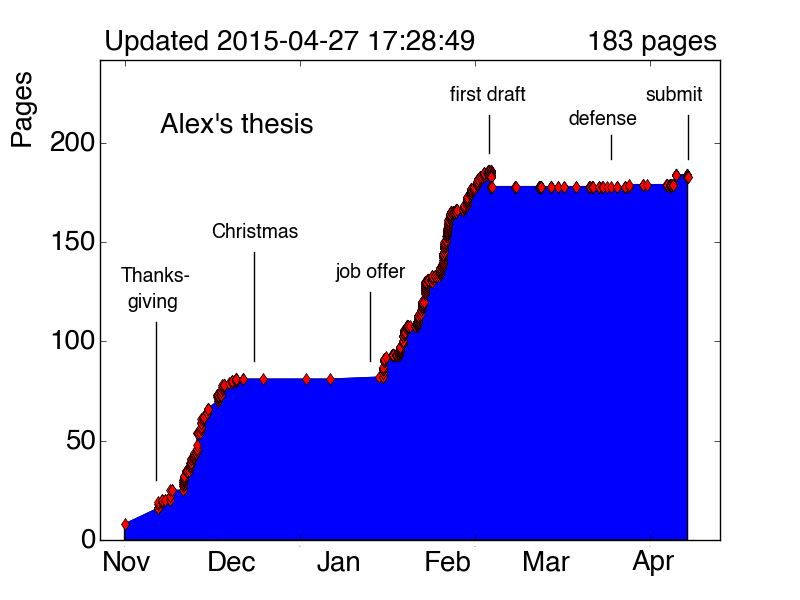
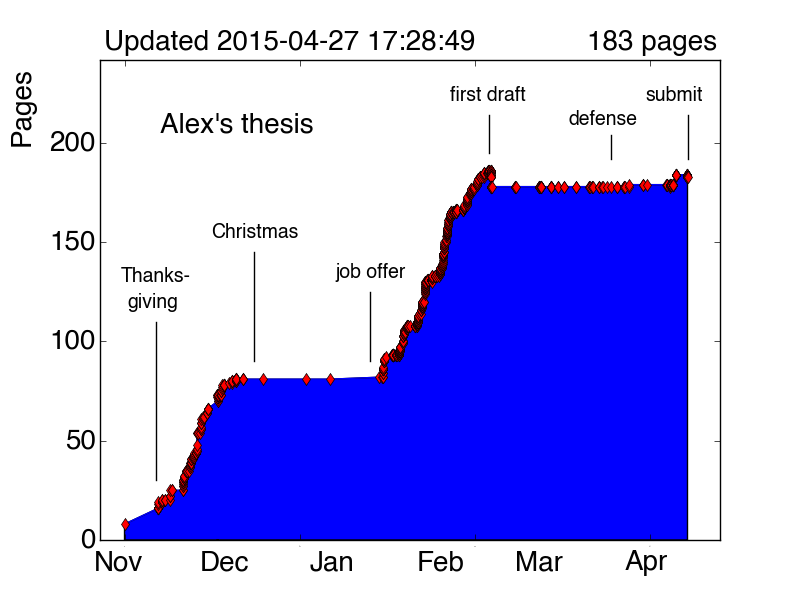
final lumi

diff --git a/scripts/plot_pages.py b/scripts/plot_pages.py
@@ -72,12 +72,12 @@ if calendar:
 
     plt.xlabel("")
     plt.tick_params(axis='x', which='major', labelsize=0)
-    plt.text((datetime.datetime.strptime("2014-11-12-00h00m00s", "%Y-%m-%d-%Hh%Mm%Ss") - start).days, -15, r"Nov")
-    plt.text((datetime.datetime.strptime("2014-12-12-00h00m00s", "%Y-%m-%d-%Hh%Mm%Ss") - start).days, -15, r"Dec")
-    plt.text((datetime.datetime.strptime("2015-01-12-00h00m00s", "%Y-%m-%d-%Hh%Mm%Ss") - start).days, -15, r"Jan")
-    plt.text((datetime.datetime.strptime("2015-02-12-00h00m00s", "%Y-%m-%d-%Hh%Mm%Ss") - start).days, -15, r"Feb")
-    plt.text((datetime.datetime.strptime("2015-03-12-00h00m00s", "%Y-%m-%d-%Hh%Mm%Ss") - start).days, -15, r"Mar")
-    plt.text((datetime.datetime.strptime("2015-04-12-00h00m00s", "%Y-%m-%d-%Hh%Mm%Ss") - start).days, -15, r"Apr")
+    plt.text((datetime.datetime.strptime("2014-11-10-00h00m00s", "%Y-%m-%d-%Hh%Mm%Ss") - start).days, -15, r"Nov")
+    plt.text((datetime.datetime.strptime("2014-12-10-00h00m00s", "%Y-%m-%d-%Hh%Mm%Ss") - start).days, -15, r"Dec")
+    plt.text((datetime.datetime.strptime("2015-01-10-00h00m00s", "%Y-%m-%d-%Hh%Mm%Ss") - start).days, -15, r"Jan")
+    plt.text((datetime.datetime.strptime("2015-02-10-00h00m00s", "%Y-%m-%d-%Hh%Mm%Ss") - start).days, -15, r"Feb")
+    plt.text((datetime.datetime.strptime("2015-03-10-00h00m00s", "%Y-%m-%d-%Hh%Mm%Ss") - start).days, -15, r"Mar")
+    plt.text((datetime.datetime.strptime("2015-04-10-00h00m00s", "%Y-%m-%d-%Hh%Mm%Ss") - start).days, -15, r"Apr")
 
 if annotate:
 
